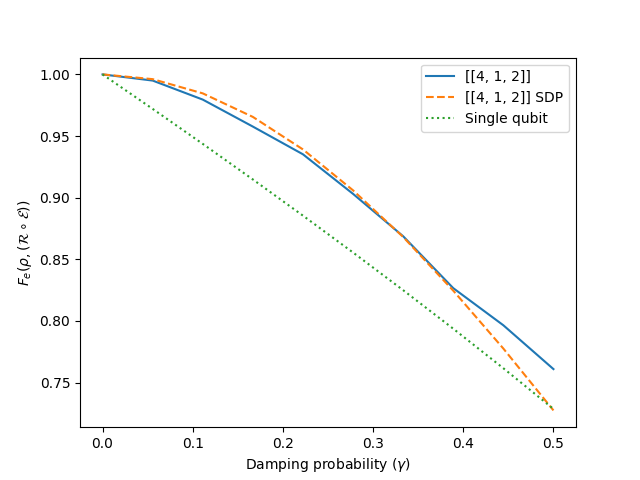
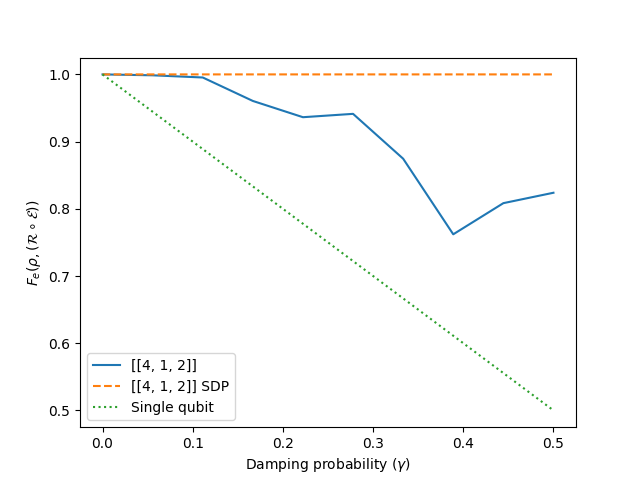
Updated

diff --git a/Approximate Dynamical Codes/purity.py b/Approximate Dynamical Codes/purity.py
@@ -1,6 +1,7 @@
-from qiskit.quantum_info import DensityMatrix, random_statevector, random_density_matrix
+from qiskit.quantum_info import DensityMatrix, random_statevector, random_density_matrix, purity
 from numpy import trace, matmul, sqrt
 from multiprocessing import Process, Manager
+from matplotlib.pyplot import subplots, legend, savefig, show
 
 from QEC import four_qubit_code, five_qubit_code, damp_err
 
@@ -13,38 +14,22 @@ tot_iter = NUM
 jobs_per_slot = 10
 num_slots = num_params // jobs_per_slot
 damp_params = [i/(2*~-num_params) for i in range(num_params)]
-states = [DensityMatrix([[v/10, 0], [0, 1-v/10]]) for v in range(11)]#[random_density_matrix(2) for _ in range(num_states)]#[DensityMatrix(random_statevector(2)) for _ in range(num_states)]#[DensityMatrix([a/10, sqrt(1-(a/10)**2)]) for a in range(11)]
+states = [DensityMatrix([[v/10, 0], [0, 1-v/10]]) for v in range(6)]#[random_density_matrix(2) for _ in range(num_states)]#[DensityMatrix(random_statevector(2)) for _ in range(num_states)]#[DensityMatrix([a/10, sqrt(1-(a/10)**2)]) for a in range(11)]
 # num_states = len(states)
 
 def exec_QEC(state, i):
     from os import getpid
     print(f'{i}: {getpid()}')
     QEC_4 = four_qubit_code()
-#     QEC_5 = five_qubit_code()
-    itr = NUM
-    while(itr):
-        try:
-            fid_QEC4[i] += QEC_4.run(state, damp_params[i])/(NUM * num_states)
-            itr = ~-itr
-        except:
-            continue
-#         fid_QEC5[i] += state_fidelity(DensityMatrix(rho), QEC_5.run(DensityMatrix(rho), damp_params[i]))/NUM
     
     fid, enc, dec = QEC_4.run_SDP(damp_params[i], state, 1e-3)
     fid_SDP4[i] += fid/num_states
     print(i, damp_params[i], fid_SDP4[i], enc, dec)
-#    fid_SDP5[i] += QEC_5.run_SDP(damp_params[i], state)
-    
-    E = damp_err(damp_params[i], 1)
-    A = abs(trace(matmul(state, E[0])))**2
-    for e in E[1:]:
-        A += abs(trace(matmul(state.data, e)))**2
-    fid_sing[i] += A/num_states
 
+_, ax = subplots(1, 1)
 for state in states:
     print(f'{states.index(state)}: {state}')
     with Manager() as manager:
-        fid_QEC4 = manager.list([0 for _ in range(len(damp_params))])
         fid_SDP4 = manager.list([0 for _ in range(len(damp_params))])
     #     fid_QEC5 = manager.list([0 for _ in range(len(damp_params))])
     #     fid_SDP5 = manager.list([0 for _ in range(len(damp_params))])
@@ -75,17 +60,9 @@ for state in states:
             for job in jobs:
                 job.join()
     
-    
-        from matplotlib.pyplot import subplots, legend, savefig, show
-    
-        _, ax = subplots(1, 1)
-    #         ax.plot(damp_params, fid_QEC5, label = "[[5, 1, 3]]")
-    #         ax.plot(damp_params, fid_SDP5, label = "[[5, 1, 3]] SDP")
-        ax.plot(damp_params, fid_QEC4, label = "[[4, 1, 2]]")
-        ax.plot(damp_params, fid_SDP4, label = "[[4, 1, 2]] SDP", ls = '--')
-        ax.plot(damp_params, fid_sing, label = "Single qubit", ls = ':')
+        ax.plot(damp_params, fid_SDP4, label = f'Purity: {purity(state).real:0.2f}')
         ax.set_xlabel(r'Damping probability $(\gamma)$')
         ax.set_ylabel(r'$F_e(\rho,(\mathcal{R}\circ\mathcal{E}))$')
         legend()
-        savefig(f'{states.index(state)}.png')
+        savefig(f'Purity.png')
     #         show()
